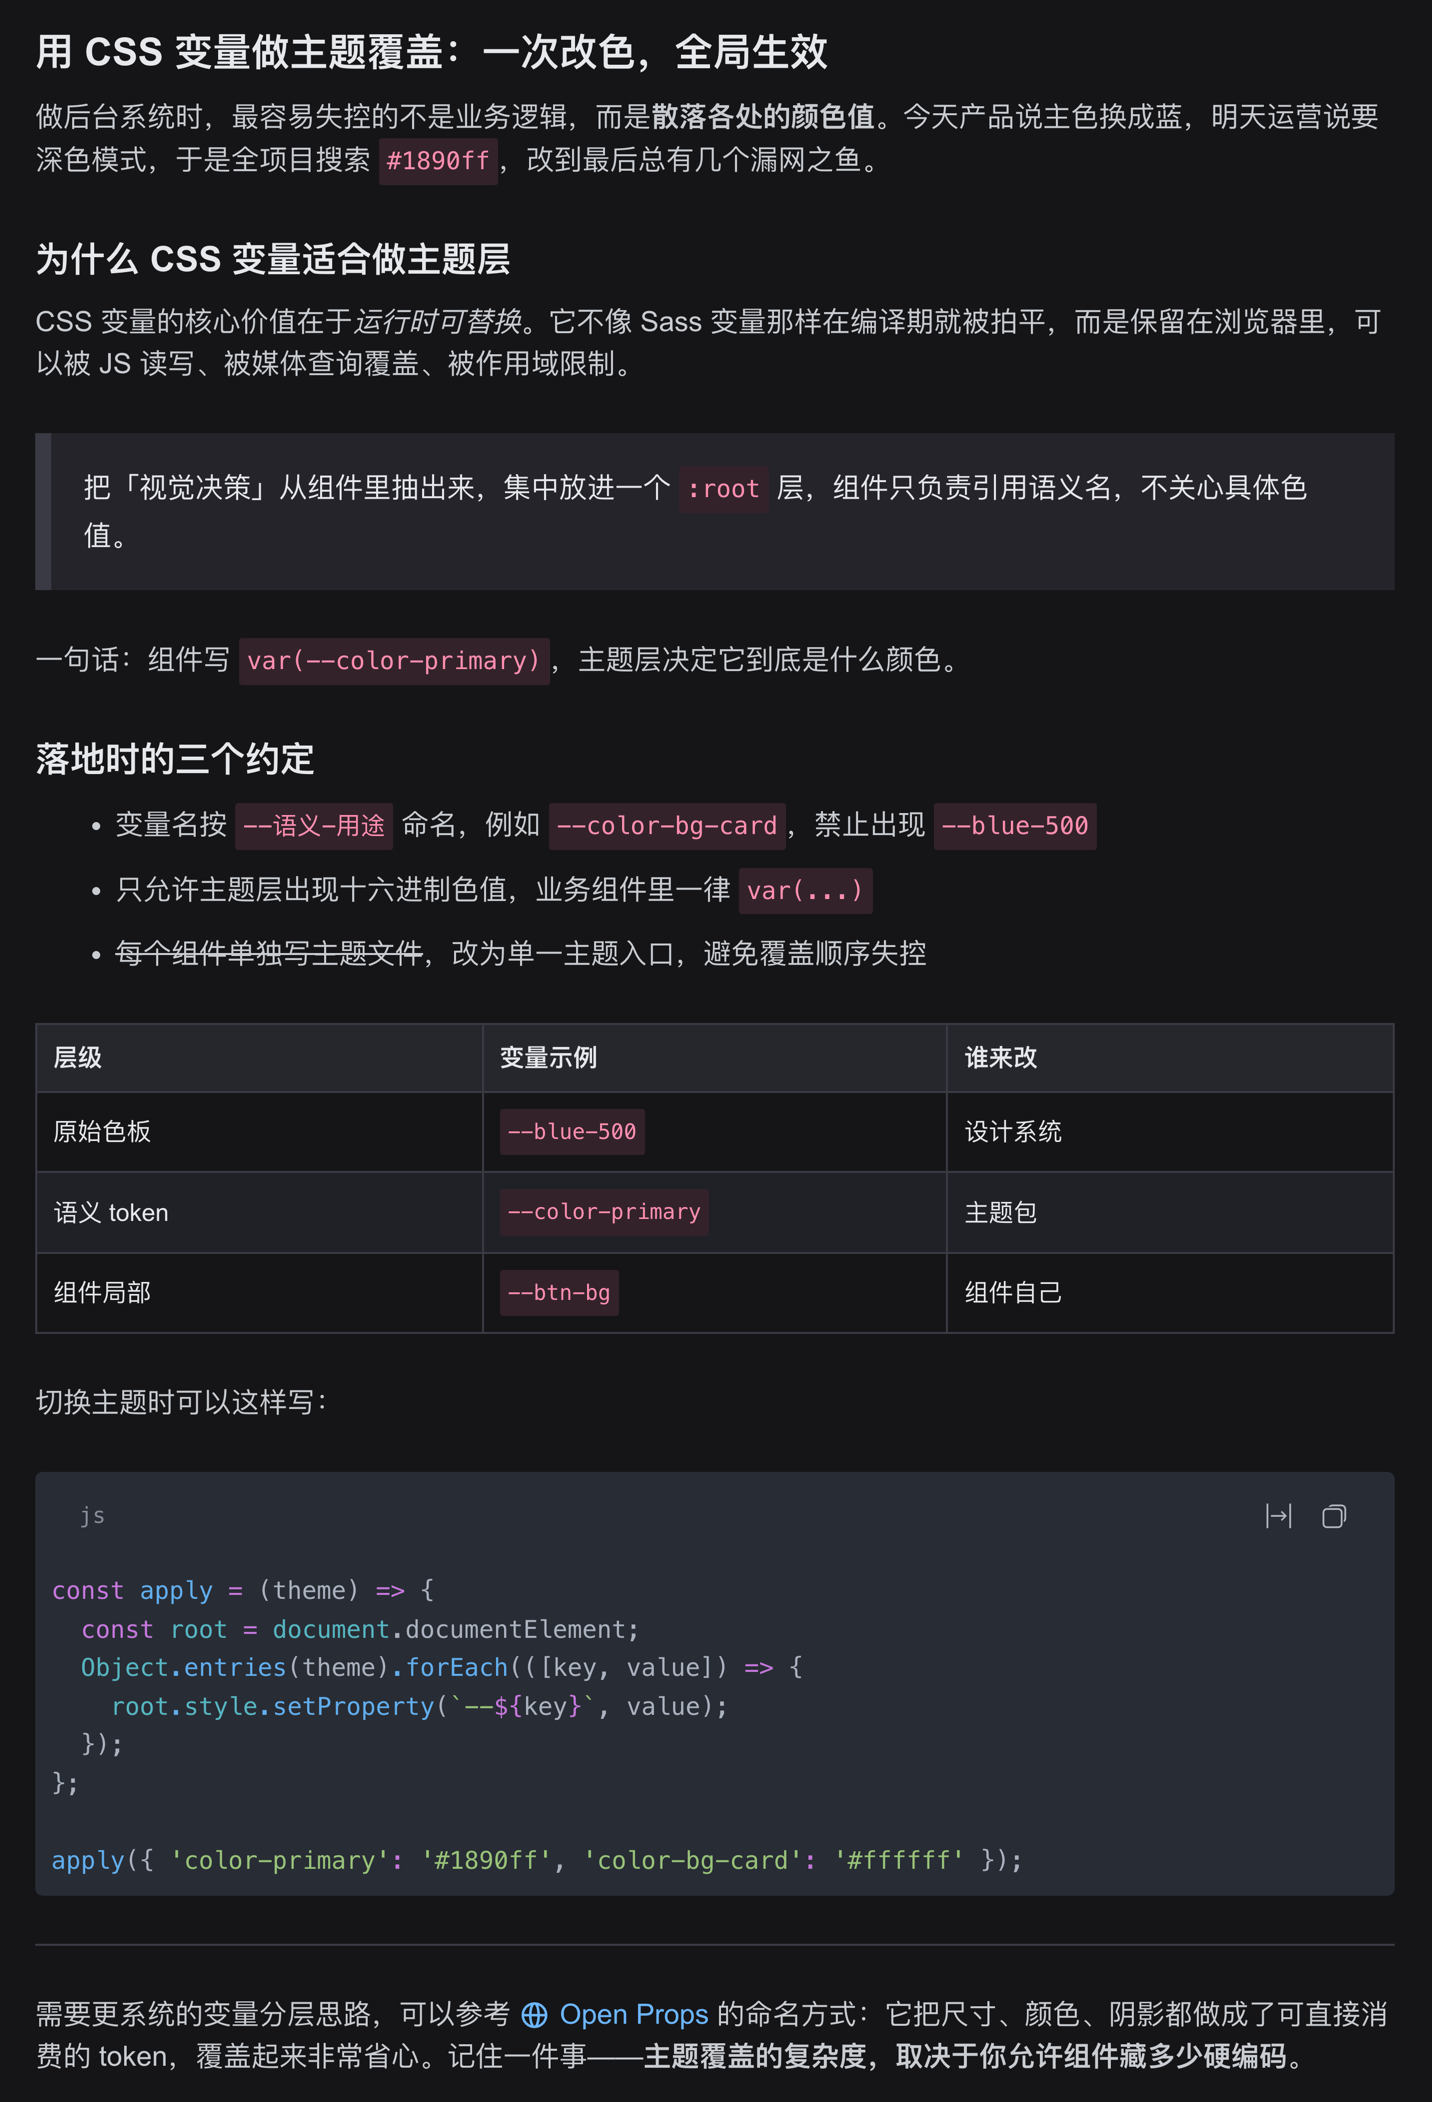
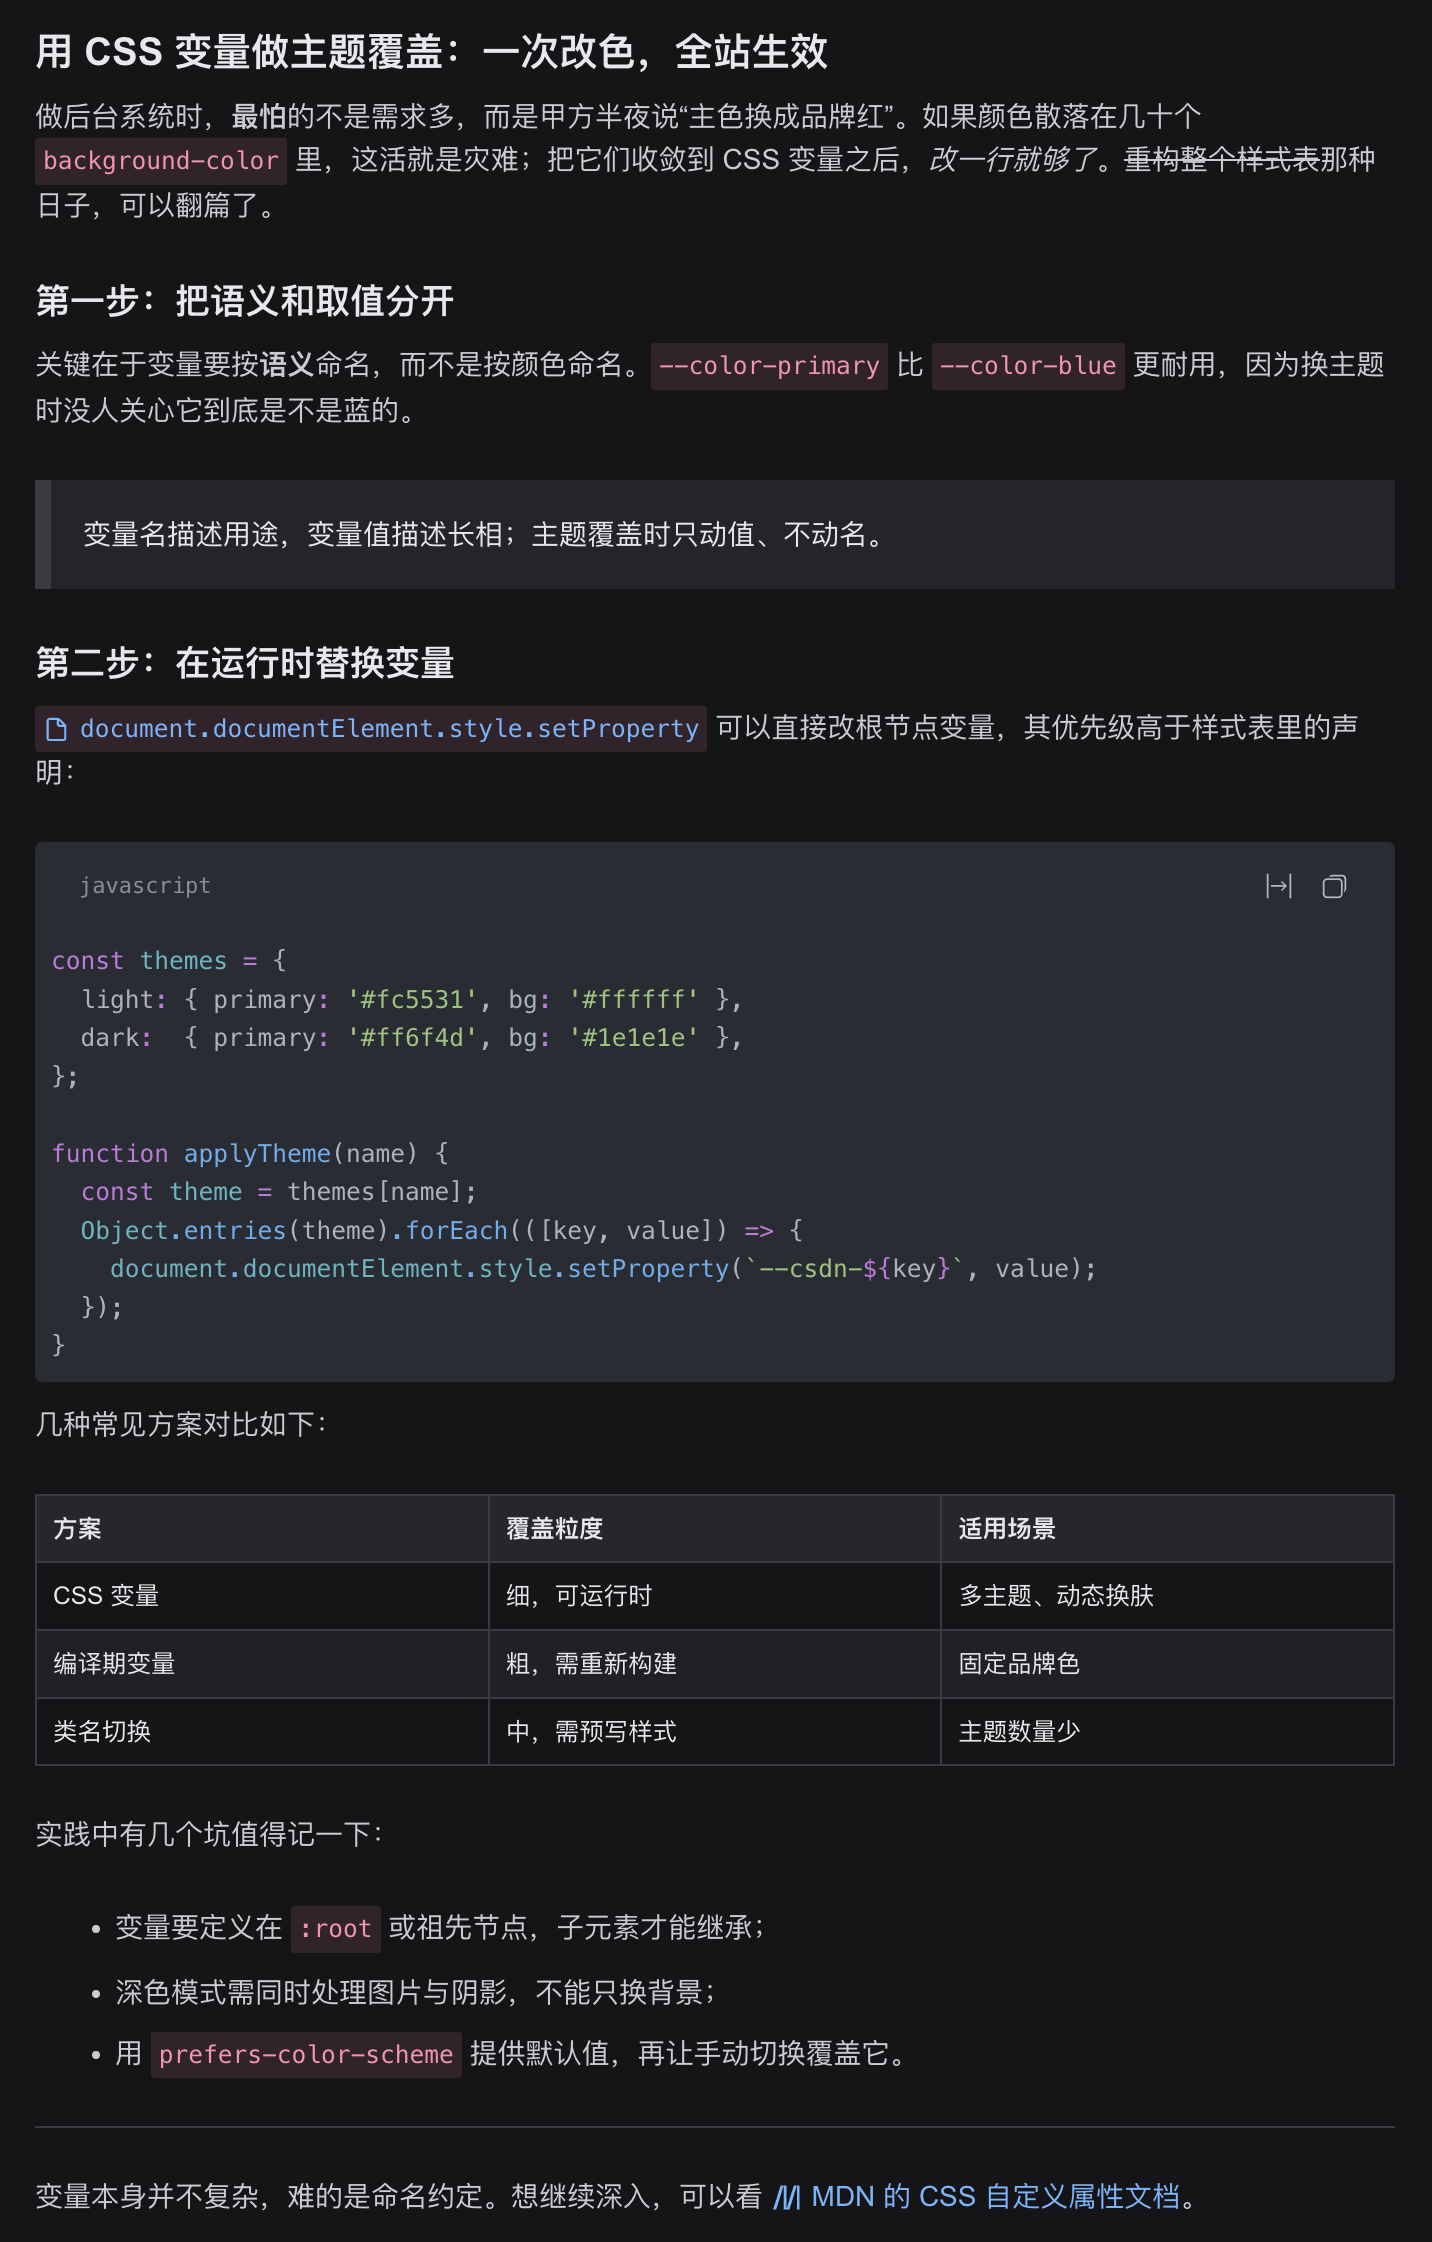
chore: 补上可重录的截图链路并同步文档
- 新增 scripts/capture-screenshots.mjs：开示例会话 → 发固定提示词 → 无头 Chrome 截浅色/深色 → 还原 ui-theme.preference → 归档会话
- README「怎么重录这两张截图」改为调用该脚本；文件表补上 scripts/
- AGENTS.md 目录说明补上该脚本及其副作用
- assets/ 两张截图由该脚本重新生成

diff --git a/README.md b/README.md
@@ -136,6 +136,7 @@ Markdown 根类在构建产物里形如 `_markdown_1ypvv_5`，样式表用 `[cla
 | `client.js` | 调色板、字体 token、语法高亮 token、元素级样式表 |
 | `screenshots.json` | 声明市场详情页要展示的截图 |
 | `assets/` | 上面两张真实截图 |
+| `scripts/capture-screenshots.mjs` | 重录那两张截图的完整链路 |
 | `test/client.test.mjs` | 7 条单测：模块契约、token 形状与命名空间、字号轴、高亮取值、样式表注入与清理 |
 
 ## 本地验证
@@ -146,18 +147,23 @@ npm test
 
 ## 怎么重录这两张截图
 
-截图走的是「固定提示词 → 真实 DSH 会话 → 无头浏览器截取正文区域」，没有做任何图像处理或后期拼图：
+截图走的是「固定提示词 → 真实 DSH 会话 → 无头浏览器截取正文区域」，没有做任何图像处理或后期拼图。整条链路是仓库里的 [`scripts/capture-screenshots.mjs`](scripts/capture-screenshots.mjs)：
 
-1. 起一个本地 DSH 实例，把本插件装进它使用的 profile（本机为 DSH Desktop，dsh `0.1.7-rc.2`）。
-2. 在该实例里新建一个会话，把下面这段提示词原样发给它，等这一轮跑完：
+```sh
+DSH_HOME="<实例 home>" node scripts/capture-screenshots.mjs
+```
 
-   ```text
+前置：该实例已装好本插件；本机有 Chrome 与 Node 18+（脚本用内置的 `fetch` 和 `WebSocket`，不装依赖）。
+
+脚本会依次做四件事：在本仓库对应的工作区里开一个示例会话；把下面这段提示词发给它并等这一轮跑完；用无头 Chrome 打开该实例的 GUI、展开工作区、点开该会话，按正文区域截图（浅色一张；把 `ui-theme.preference` 临时切成 `dark` 再截一张，截完立即改回原值）；归档这个示例会话。
+
+用的提示词：
+
+```text
 写一段 CSDN 风格的技术博文正文，约 450 字，主题自拟（围绕「用 CSS 变量做主题覆盖」）。直接输出 Markdown 正文本身：不要开场白、不要解释、不要用代码围栏把整篇包起来。正文必须自然出现：一个二级标题、两个三级标题、加粗、斜体、删除线、行内代码、引用块、三列表格（带表头）、无序列表、一个 JavaScript 代码块、一条分隔线、一个链接。绝对不要输出任何 HTML 标签（不要 <u>、<kbd> 之类）。不要调用任何工具。
-   ```
+```
 
-3. 用无头 Chrome 打开该实例的 GUI，展开对应工作区、点开这个会话，截取正文区域得到浅色图。
-4. 把设置里的 `ui-theme.preference` 切成 `dark`，同一位置再截一张深色图，截完改回原值。
-5. 覆盖 `assets/screenshot-light.png` 与 `assets/screenshot-dark.png`（宽度 1432px 足够），`screenshots.json` 无需改动。
+产物直接覆盖 `assets/screenshot-light.png` 与 `assets/screenshot-dark.png`（1432px 宽），`screenshots.json` 无需改动。加 `--keep` 可以保留示例会话。
 
 ## 想改
 

diff --git a/AGENTS.md b/AGENTS.md
@@ -25,6 +25,7 @@ dsh plugin --profile web remove dsh-csdn-theme
 - `client.js` — 唯一实现：调色板、token 表、元素级样式表。
 - `test/client.test.mjs` — 全部单测；改行为先在这里加断言。
 - `cordis.patch.yml` — 往 profile 插入行 `csdn-theme`。
+- `scripts/capture-screenshots.mjs` — 重录 README 两张截图的链路；跑它会在实例里开一个示例会话并归档，中途会临时改 `ui-theme.preference` 再改回。
 - token 命名空间：宿主语义层 `--dsw-`，语法高亮 `--shiki-`，本插件私有 `--csdn-`。
 - 字号不写死 px，一律按比例挂在 `--dsh-content-font-size` 上，保留宿主字号设置。
 - 样式表作用域 `[class*="_markdown_"]:not([class*="_compact_"])`；代码块用宿主全局钩子 `md-code-block`。
